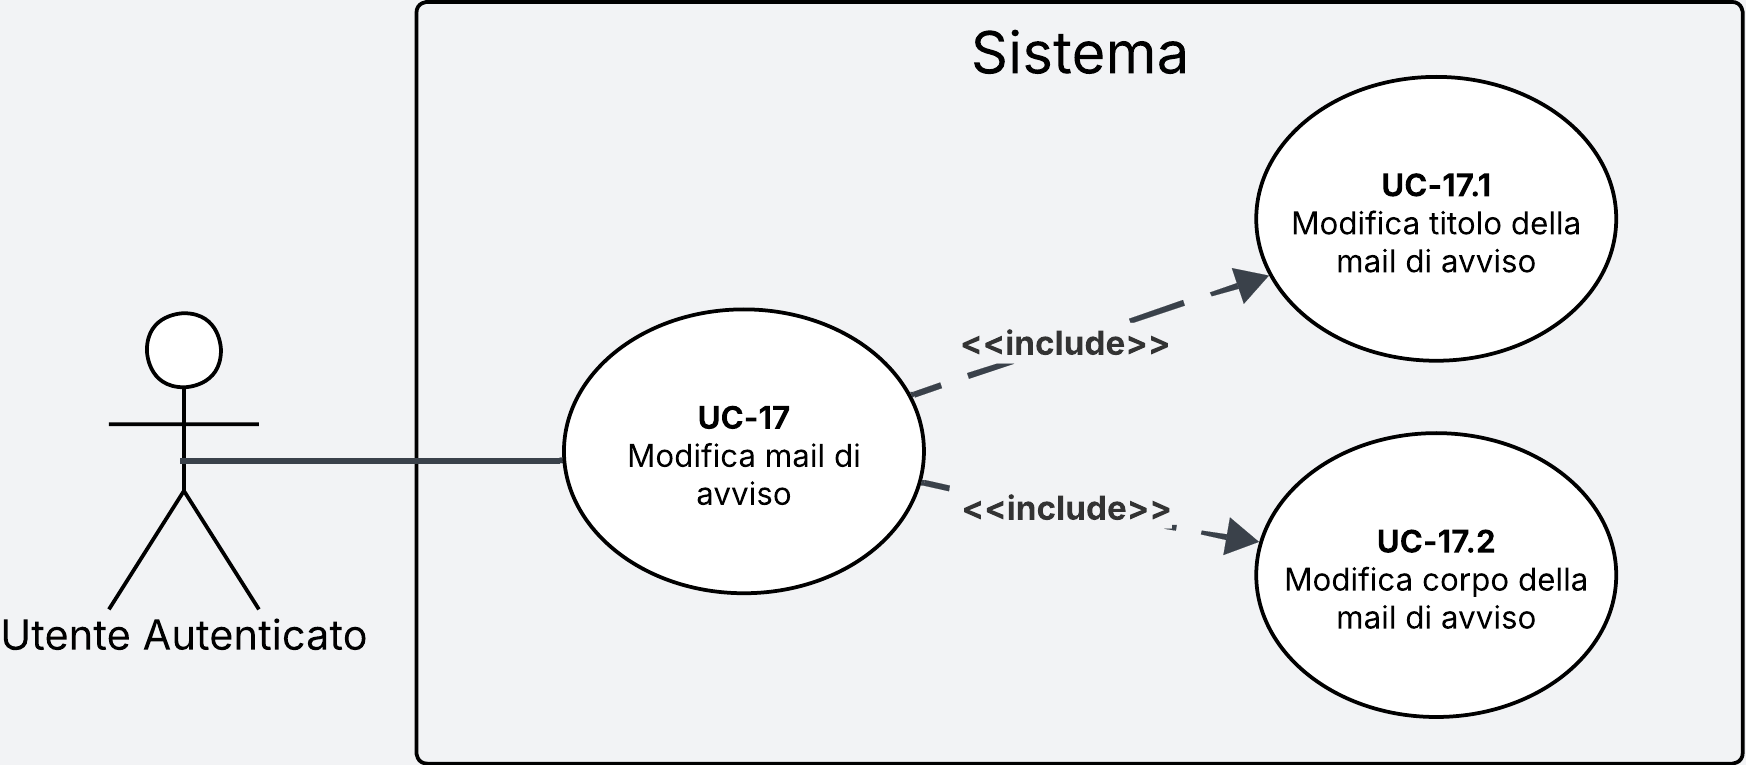
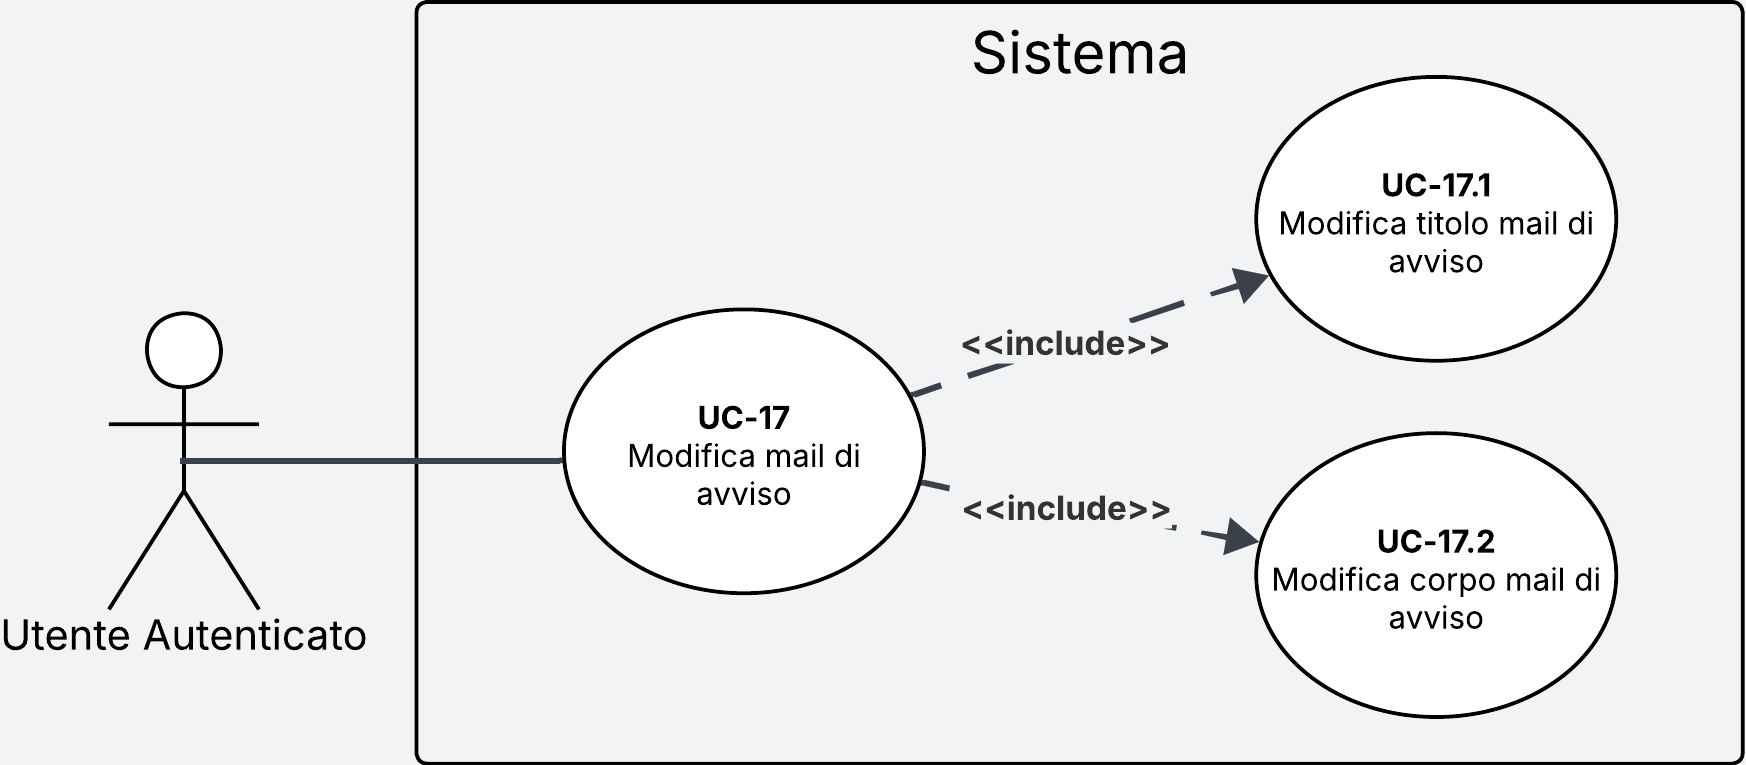
fix immagini

Changed region(s): [[0.7113, 0.2706, 0.9278, 0.3608], [0.7113, 0.7216, 0.9278, 0.8418]]

diff --git a/src/RTB/documenti_esterni/analisi_dei_requisiti/analisi_dei_requisiti.tex b/src/RTB/documenti_esterni/analisi_dei_requisiti/analisi_dei_requisiti.tex
@@ -1309,7 +1309,7 @@ Il diagramma riportato di seguito mostra anche ulteriori casi d'uso correlati (\
     \item \textbf{Pre-condizioni:}
     \begin{itemize}
         \item Il sistema è attivo
-        \item La funzionalità Dead Man's Switch è abilitata UC-57 $\rightarrow$ \ref{sec:UC-57}
+        \item La funzionalità Dead Man's Switch è abilitata
         \item L'attore ha effettuato l'accesso alle impostazioni del Dead Man's Switch
     \end{itemize}
     \item \textbf{Post-condizioni:}
@@ -1332,7 +1332,7 @@ Il diagramma riportato di seguito mostra anche ulteriori casi d'uso correlati (\
     \item \textbf{Pre-condizioni:}
     \begin{itemize}
         \item Il sistema è attivo
-        \item La funzionalità Dead Man's Switch è abilitata UC-57 $\rightarrow$ \ref{sec:UC-57}
+        \item La funzionalità Dead Man's Switch è abilitata
         \item L'attore si trova nelle impostazioni del Dead Man's Switch
         \item Il timer di prima inattività è stato configurato
     \end{itemize}
@@ -1362,7 +1362,7 @@ Il diagramma riportato di seguito mostra anche ulteriori casi d'uso correlati (\
     \item \textbf{Pre-condizioni:}
     \begin{itemize}
         \item Il sistema è attivo
-        \item La funzionalità Dead Man's Switch è abilitata UC-57 $\rightarrow$ \hyperref[sec:UC-57]{UC-57}
+        \item La funzionalità Dead Man's Switch è abilitata UC-57
         \item L'attore ha selezionato l'opzione di modifica della mail di avviso
     \end{itemize}
     \item \textbf{Post-condizioni:}
@@ -1389,7 +1389,7 @@ Il diagramma riportato di seguito mostra anche ulteriori casi d'uso correlati (\
     \item \textbf{Pre-condizioni:}
     \begin{itemize}
         \item Il sistema è attivo
-        \item La funzionalità Dead Man's Switch è abilitata UC-57 $\rightarrow$ \hyperref[sec:UC-57]{UC-57}
+        \item La funzionalità Dead Man's Switch è abilitata
         \item L'attore ha selezionato il campo per la modifica del titolo della mail di avviso
     \end{itemize}
     \item \textbf{Post-condizioni:}
@@ -1409,7 +1409,7 @@ Il diagramma riportato di seguito mostra anche ulteriori casi d'uso correlati (\
     \item \textbf{Pre-condizioni:}
     \begin{itemize}
         \item Il sistema è attivo
-        \item La funzionalità Dead Man's Switch è abilitata UC-57 $\rightarrow$ \hyperref[sec:UC-57]{UC-57}
+        \item La funzionalità Dead Man's Switch è abilitata
         \item L'attore ha selezionato l'opzione di modifica della mail di avviso
         \item L'attore ha selezionato il campo per la modifica del corpo della mail di avviso
     \end{itemize}
@@ -1424,19 +1424,19 @@ Il diagramma riportato di seguito mostra anche ulteriori casi d'uso correlati (\
     \item \textbf{Trigger:} L'attore vuole personalizzare il corpo della mail che riceverà in caso di inutilizzo prolungato dell'applicazione
 \end{itemize}
 
-\subsubsection{UC-19 - Visualizzazione preview mail di avviso} \label{sec:UC-19}
+\subsubsection{UC-18 - Visualizzazione preview mail di avviso} \label{sec:UC-18}
 \begin{figure}[H]
     \centering
-    \includegraphics[width=1\textwidth]{use_case/UC-19-dmswitch.png}
-    \caption{Diagramma del caso d'uso UC-19}
-    \label{fig:UC-19}
+    \includegraphics[width=1\textwidth]{use_case/UC-18-dmswitch.png}
+    \caption{Diagramma del caso d'uso UC-18}
+    \label{fig:UC-18}
 \end{figure}
 \begin{itemize}
     \item \textbf{Attore principale:} \term{Utente} Autenticato
     \item \textbf{Pre-condizioni:}
     \begin{itemize}
         \item Il sistema è attivo
-        \item La funzionalità Dead Man's Switch è abilitata UC-57 $\rightarrow$ \ref{sec:UC-57}
+        \item La funzionalità Dead Man's Switch è abilitata
         \item L'attore vuole verificare l'aspetto della mail configurata
     \end{itemize}
     \item \textbf{Post-condizioni:}
@@ -1447,8 +1447,8 @@ Il diagramma riportato di seguito mostra anche ulteriori casi d'uso correlati (\
     \begin{itemize}
         \item Il sistema recupera i dati della mail
         \item Il sistema compone l'anteprima del messaggio
-        \item Il sistema visualizza il titolo della mail $\rightarrow$ \ref{subsec:UC-19.1}
-        \item Il sistema visualizza il corpo della mail $\rightarrow$ \ref{subsec:UC-19.2}
+        \item Il sistema visualizza il titolo della mail $\rightarrow$ \hyperref[subsec:UC-18.1]{UC-18.1}
+        \item Il sistema visualizza il corpo della mail $\rightarrow$ \hyperref[subsec:UC-18.2]{UC-18.2}
     \end{itemize}
     \item \textbf{Scenario secondario:} 
     \begin{itemize}
@@ -1456,18 +1456,18 @@ Il diagramma riportato di seguito mostra anche ulteriori casi d'uso correlati (\
     \end{itemize}
     \item \textbf{Inclusioni:}
     \begin{itemize}
-        \item \hyperref[subsec:UC-19.1]{UC-19.1}
-        \item \hyperref[subsec:UC-19.2]{UC-19.2}
+        \item \hyperref[subsec:UC-18.1]{UC-18.1}
+        \item \hyperref[subsec:UC-18.2]{UC-18.2}
     \end{itemize}
     \item \textbf{Trigger:} L'attore seleziona il pulsante di anteprima
 \end{itemize}
 
-\subsubsection{UC-19.1 - Visualizzazione titolo mail di avviso} \label{subsec:UC-19.1}
+\subsubsection{UC-18.1 - Visualizzazione titolo mail di avviso} \label{subsec:UC-18.1}
 \begin{itemize}
     \item \textbf{Attore principale:} \term{Utente} Autenticato
     \item \textbf{Pre-condizioni:}
     \begin{itemize}
-        \item La funzionalità Dead Man's Switch è abilitata UC-57 $\rightarrow$ \ref{sec:UC-57}
+        \item La funzionalità Dead Man's Switch è abilitata
         \item Il sistema sta renderizzando l'anteprima
     \end{itemize}
     \item \textbf{Post-condizioni:} L'oggetto della mail è visibile
@@ -1478,12 +1478,12 @@ Il diagramma riportato di seguito mostra anche ulteriori casi d'uso correlati (\
     \item \textbf{Trigger:} L'attore visualizza l'anteprima della mail
 \end{itemize}
 
-\subsubsection{UC-19.2 - Visualizzazione corpo della mail di avviso} \label{subsec:UC-19.2}
+\subsubsection{UC-18.2 - Visualizzazione corpo della mail di avviso} \label{subsec:UC-18.2}
 \begin{itemize}
     \item \textbf{Attore principale:} \term{Utente} Autenticato
     \item \textbf{Pre-condizioni:}
     \begin{itemize}
-        \item La funzionalità Dead Man's Switch è abilitata UC-57 $\rightarrow$ \ref{sec:UC-57}
+        \item La funzionalità Dead Man's Switch è abilitata
         \item Il sistema sta renderizzando l'anteprima
     \end{itemize}
     \item \textbf{Post-condizioni:} Il contenuto principale della mail è visibile
